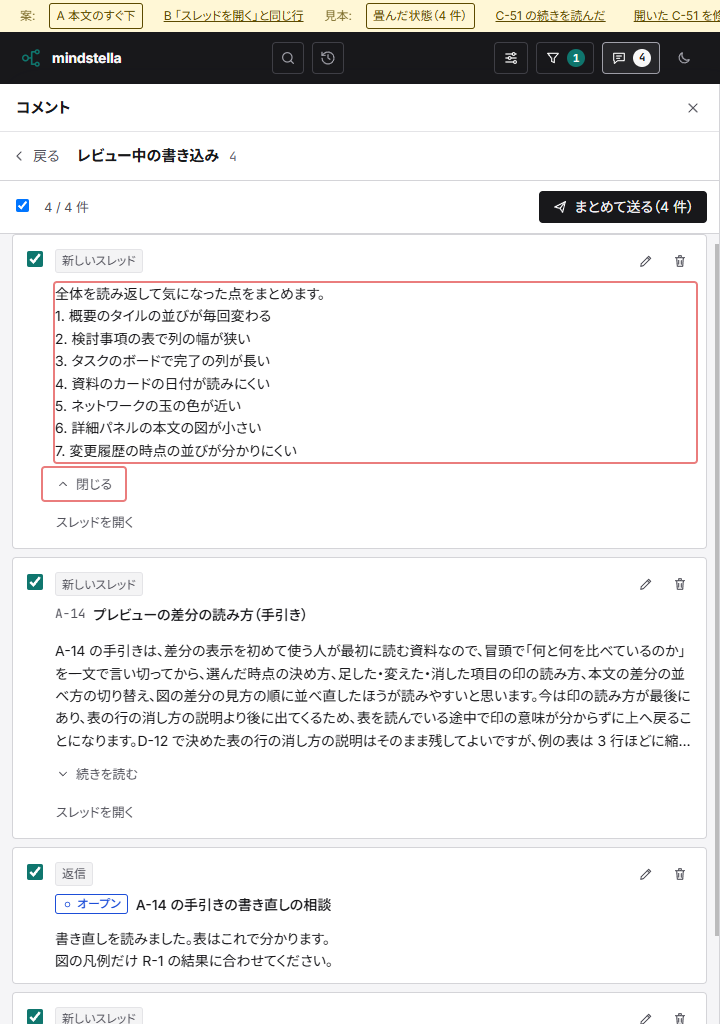
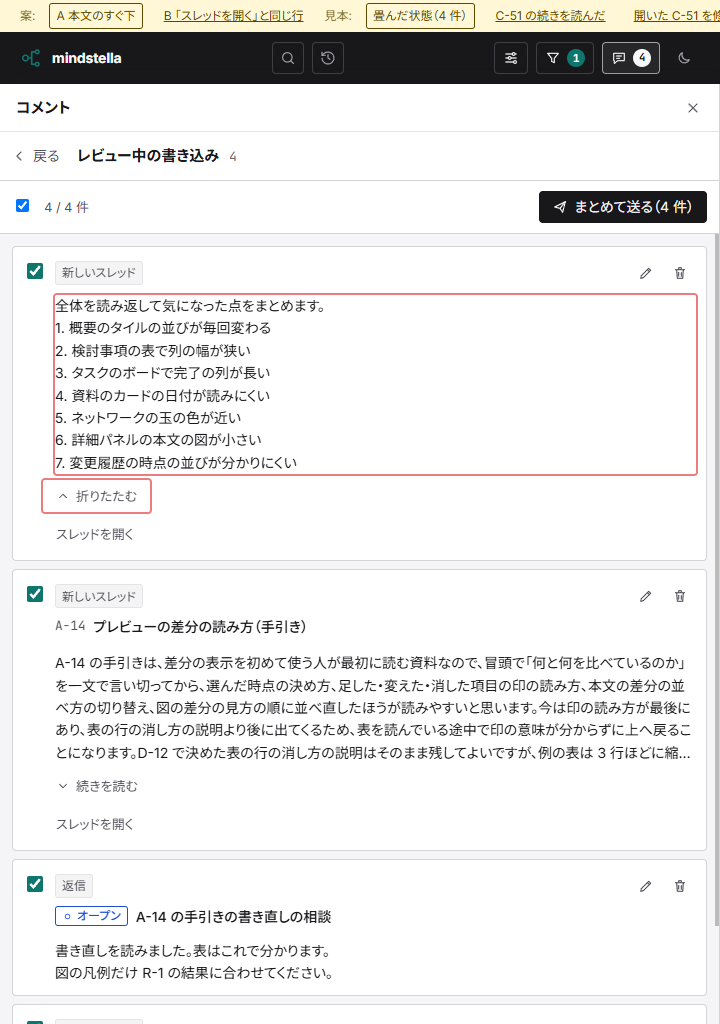
design: 本文を畳み直すボタンの文言を「折りたたむ」にする

diff --git a/dev/mock/refs/329/assets/app.js b/dev/mock/refs/329/assets/app.js
@@ -10560,10 +10560,10 @@ var MindmapPreview;
     /** 329: 開閉のボタンの文言・印・読み上げの名前を、開いているかに合わせる */
     function setReviewFoldToggle(more, open, label) {
         more.setAttribute("aria-expanded", open ? "true" : "false");
-        more.setAttribute("aria-label", open ? `${label}の本文を閉じる` : `${label}の続きを読む`);
-        more.replaceChildren(MindmapPreview.icon("chev"), MindmapPreview.h({ tag: "span", children: [open ? "閉じる" : "続きを読む"] }));
+        more.setAttribute("aria-label", open ? `${label}の本文を折りたたむ` : `${label}の続きを読む`);
+        more.replaceChildren(MindmapPreview.icon("chev"), MindmapPreview.h({ tag: "span", children: [open ? "折りたたむ" : "続きを読む"] }));
     }
-    /** 329: レビュー中の書き込みの本文を 5 行までで畳み、超えるときだけ「続きを読む」「閉じる」を出す */
+    /** 329: レビュー中の書き込みの本文を 5 行までで畳み、超えるときだけ「続きを読む」「折りたたむ」を出す */
     function reviewBodyFold({ item, label, body }) {
         const id = `review-body-${item.id}`;
         body.id = id;
@@ -10588,7 +10588,7 @@ var MindmapPreview;
                         expandedReview.delete(item.id);
                     body.classList.toggle("folded", !opening);
                     setReviewFoldToggle(more, opening, label);
-                    // 閉じたら、畳んだ行が画面から外れないように寄せる
+                    // 折りたたんだら、畳んだ行が画面から外れないように寄せる
                     if (!opening)
                         body.closest("li")?.scrollIntoView({ block: "nearest" });
                 },
@@ -10667,7 +10667,7 @@ var MindmapPreview;
                                 on: { saveEdit: props.on.saveEdit, cancelEdit: props.on.cancelEdit },
                             })
                             : fold.body,
-                        // 329: 案 A: 本文のすぐ下に「続きを読む」「閉じる」
+                        // 329: 案 A: 本文のすぐ下に「続きを読む」「折りたたむ」
                         fold === null || moreWithOpen ? null : MindmapPreview.h({ tag: "div", attrs: { class: "review-more-row" }, children: [fold.more] }),
                         // クローズのスレッドへの返信: 送れない理由と、そのスレッドを開く入口
                         blocked && item.thread !== null
@@ -10682,7 +10682,7 @@ var MindmapPreview;
                             })
                             : null,
                         // 新しいスレッド: まだ送っていないそのスレッドを開く入口
-                        // 329: 案 B: 「続きを読む」「閉じる」を同じ行の先に置く（返信の行は「続きを読む」だけの行）
+                        // 329: 案 B: 「続きを読む」「折りたたむ」を同じ行の先に置く（返信の行は「続きを読む」だけの行）
                         item.thread === null || (moreWithOpen && fold !== null)
                             ? MindmapPreview.h({
                                 tag: "div",

diff --git a/dev/mock/refs/329/assets/style.css b/dev/mock/refs/329/assets/style.css
@@ -39,7 +39,7 @@ body:has(> .mockbar) :is(.panel, .comments-panel, .settings-drawer, dialog.drawe
 .row-thread-open > .btn { flex: none; white-space: nowrap; }
 /* 案 B: 「続きを読む」だけを持つ返信の行で、ボタンを出さないとき: 行ごと出さない */
 .row-thread-open:not(:has(> :not([hidden]))) { display: none; }
-/* 「続きを読む」「閉じる」: 測るまで・超えないときは出さない（.btn の inline-flex より優先する） */
+/* 「続きを読む」「折りたたむ」: 測るまで・超えないときは出さない（.btn の inline-flex より優先する） */
 .review-more[hidden] { display: none; }
 /* 開閉の印: 畳んでいるときは下向き */
 .review-more .icon { width: 14px; height: 14px; transform: rotate(90deg); }

diff --git a/dev/mock/components/review-body-fold/index.html b/dev/mock/components/review-body-fold/index.html
@@ -48,7 +48,7 @@
     <!-- 開いた -->
     <section class="cat-sec">
       <h2>開いた</h2>
-      <p>全文を出し、ボタンは「閉じる」（印は上向き）。押すと 5 行までに畳み直す。</p>
+      <p>全文を出し、ボタンは「折りたたむ」（印は上向き）。押すと 5 行までに畳み直す。</p>
       <div class="stage" id="s-open"></div>
     </section>
 

diff --git a/dev/mock/refs/329/index.md b/dev/mock/refs/329/index.md
@@ -9,7 +9,7 @@
 
 | 画面 | 中身 |
 | --- | --- |
-| [comment-review](../../pages/comment-review/329/index.md) | レビュー中を確かめる画面の行の頭（項目を指さない行は「新しいスレッド」の札だけ）と、5 行を超える本文の畳み方・「続きを読む」「閉じる」 |
+| [comment-review](../../pages/comment-review/329/index.md) | レビュー中を確かめる画面の行の頭（項目を指さない行は「新しいスレッド」の札だけ）と、5 行を超える本文の畳み方・「続きを読む」「折りたたむ」 |
 
 | 部品 | 中身 |
 | --- | --- |
